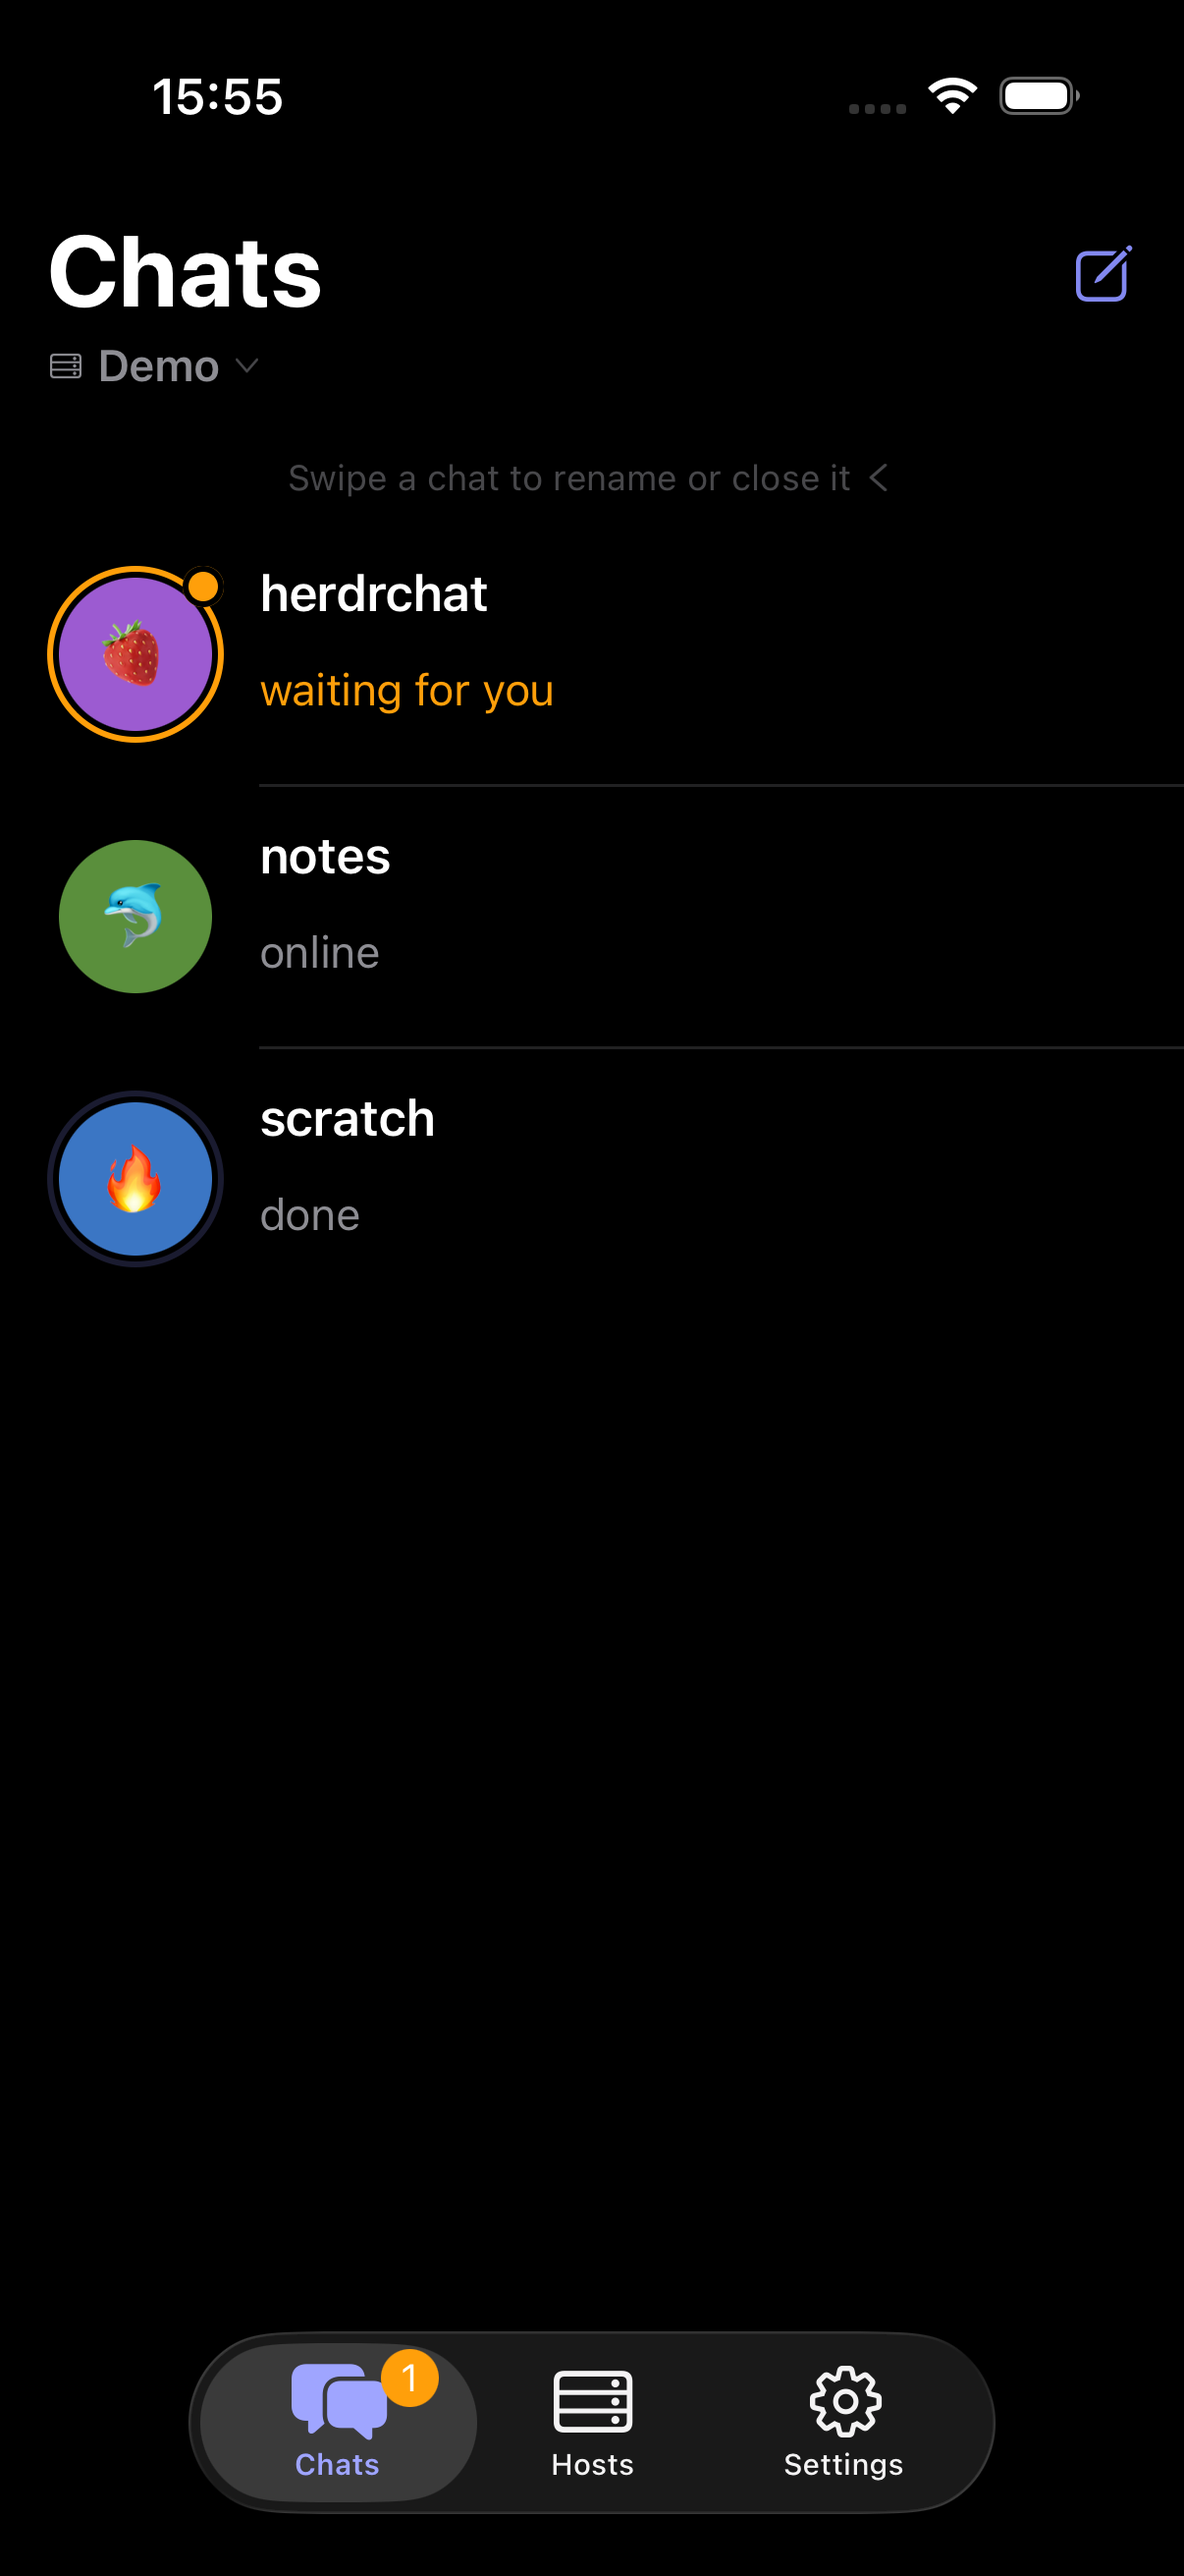
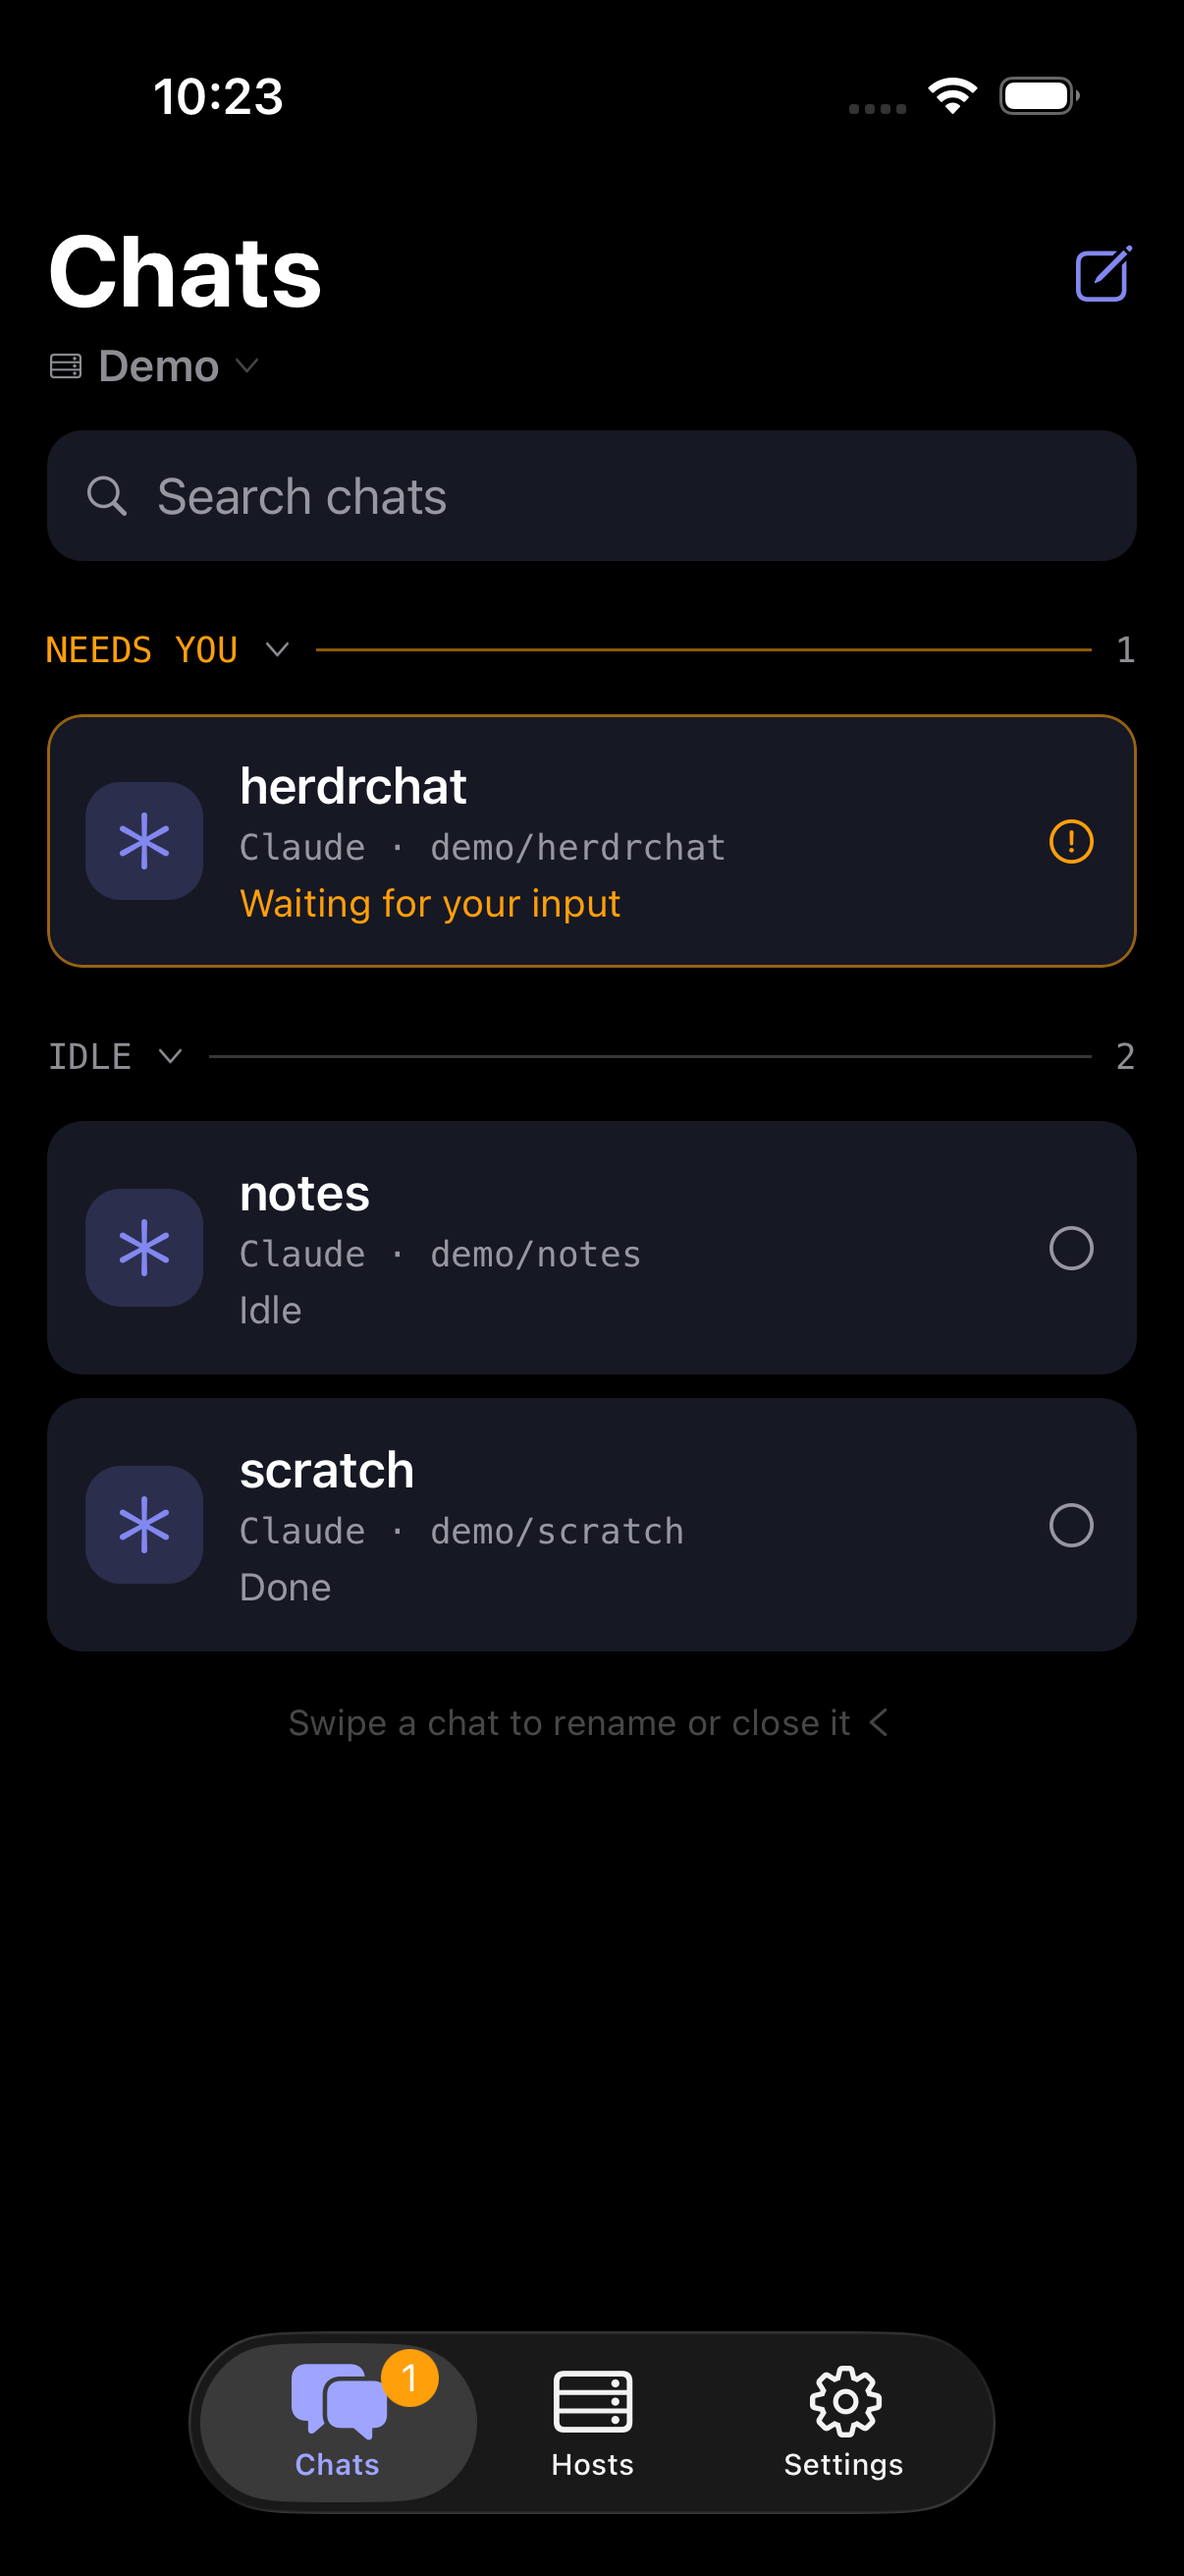
Refresh the chat list screenshot and tablet overview

diff --git a/README.md b/README.md
@@ -16,11 +16,11 @@
 </p>
 
 Your agents keep running on your computer. HerdrChat turns their
-[herdr](https://herdr.dev) workspaces into readable conversations on your iPhone,
+[herdr](https://herdr.dev) workspaces into readable conversations on your iPhone or iPad,
 connected directly over SSH. No HerdrChat account. No relay server.
 
 <p align="center">
-  <a href="docs/screenshots/chats-dark.png"><img src="docs/screenshots/chats-dark.png" alt="Dark-mode chat list showing agents waiting, online and finished" width="280"></a>
+  <a href="docs/screenshots/chats-dark.png"><img src="docs/screenshots/chats-dark.png" alt="Dark-mode agent cards grouped by status, with chat search" width="280"></a>
   <a href="docs/screenshots/thread-blocked-dark.png"><img src="docs/screenshots/thread-blocked-dark.png" alt="Dark-mode conversation with a tool call and tappable approval choices" width="280"></a>
   <br>
   <sub>Demo conversations, captured in the iOS simulator. Tap a screenshot to zoom.</sub>
@@ -29,6 +29,7 @@ connected directly over SSH. No HerdrChat account. No relay server.
 ## Less terminal. More conversation.
 
 - **Pick up where you left off.** Read Claude Code and Codex history, including replies started at your desk.
+- **See what needs you.** Search chats grouped by Needs you, Working and Idle. On iPad, keep the list beside your conversation.
 - **Keep things readable.** Message bubbles, code blocks, tables and compact tool activity.
 - **Give an agent a nudge.** Send a follow-up or tap a supported approval choice.
 - **Keep your machine yours.** Connect over SSH, usually through Tailscale. Credentials stay in the iOS Keychain; host keys are pinned.
